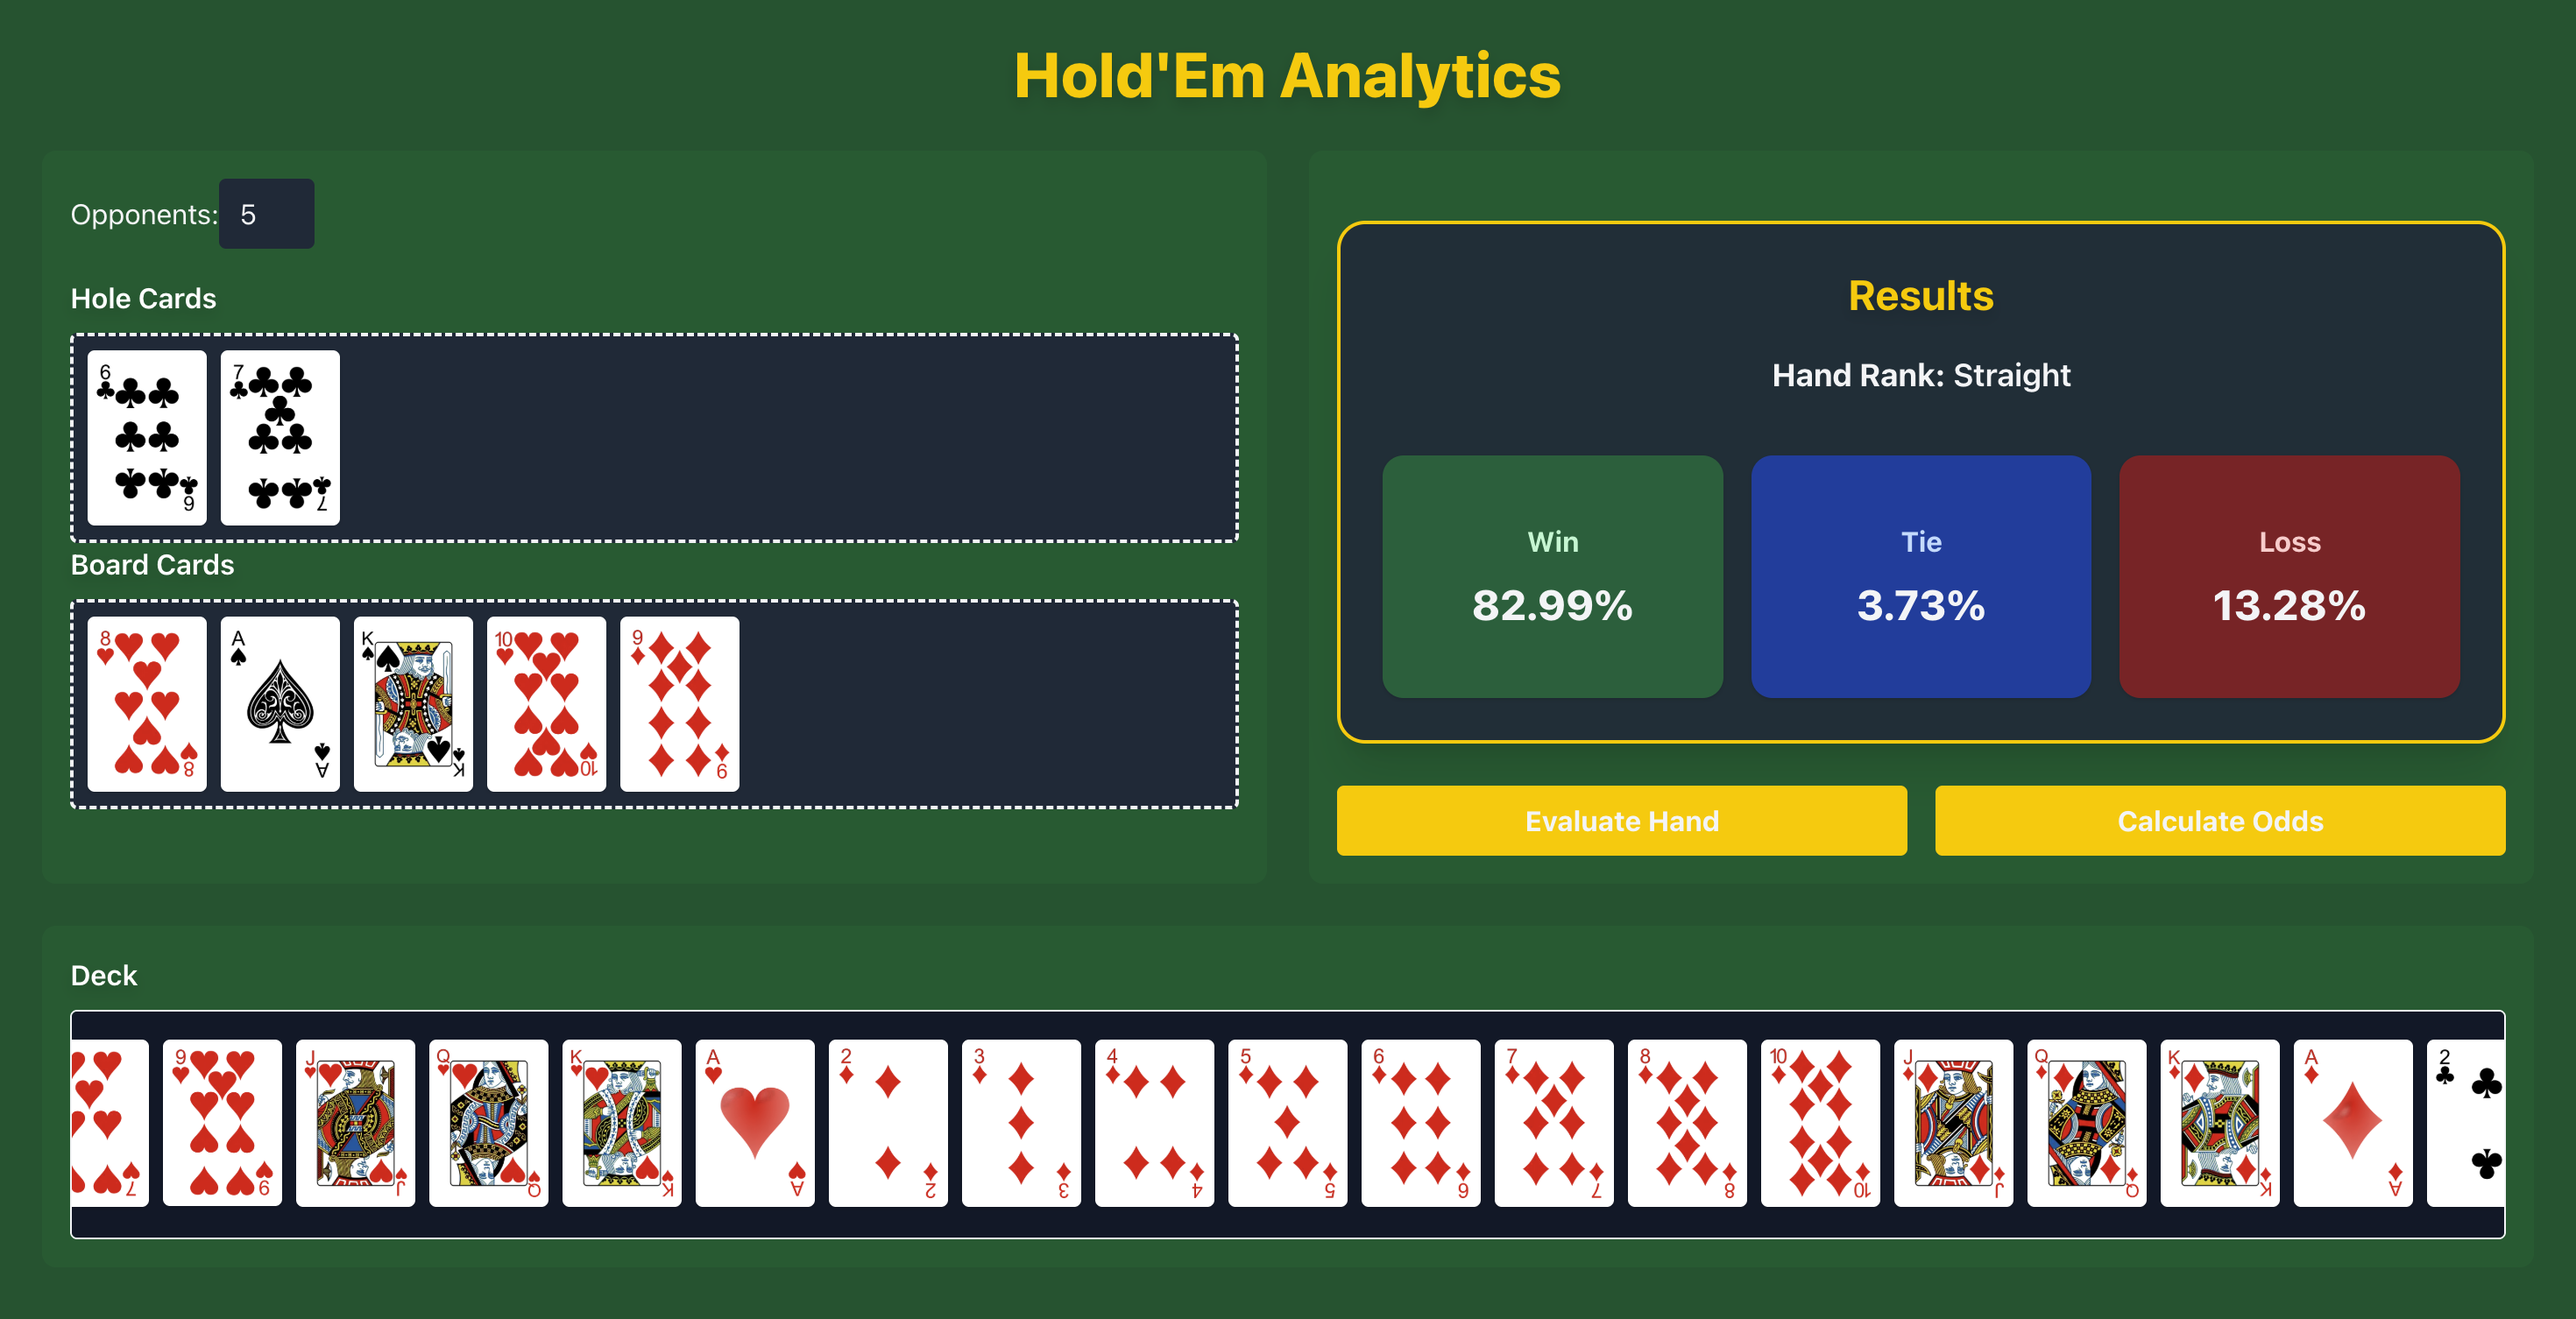
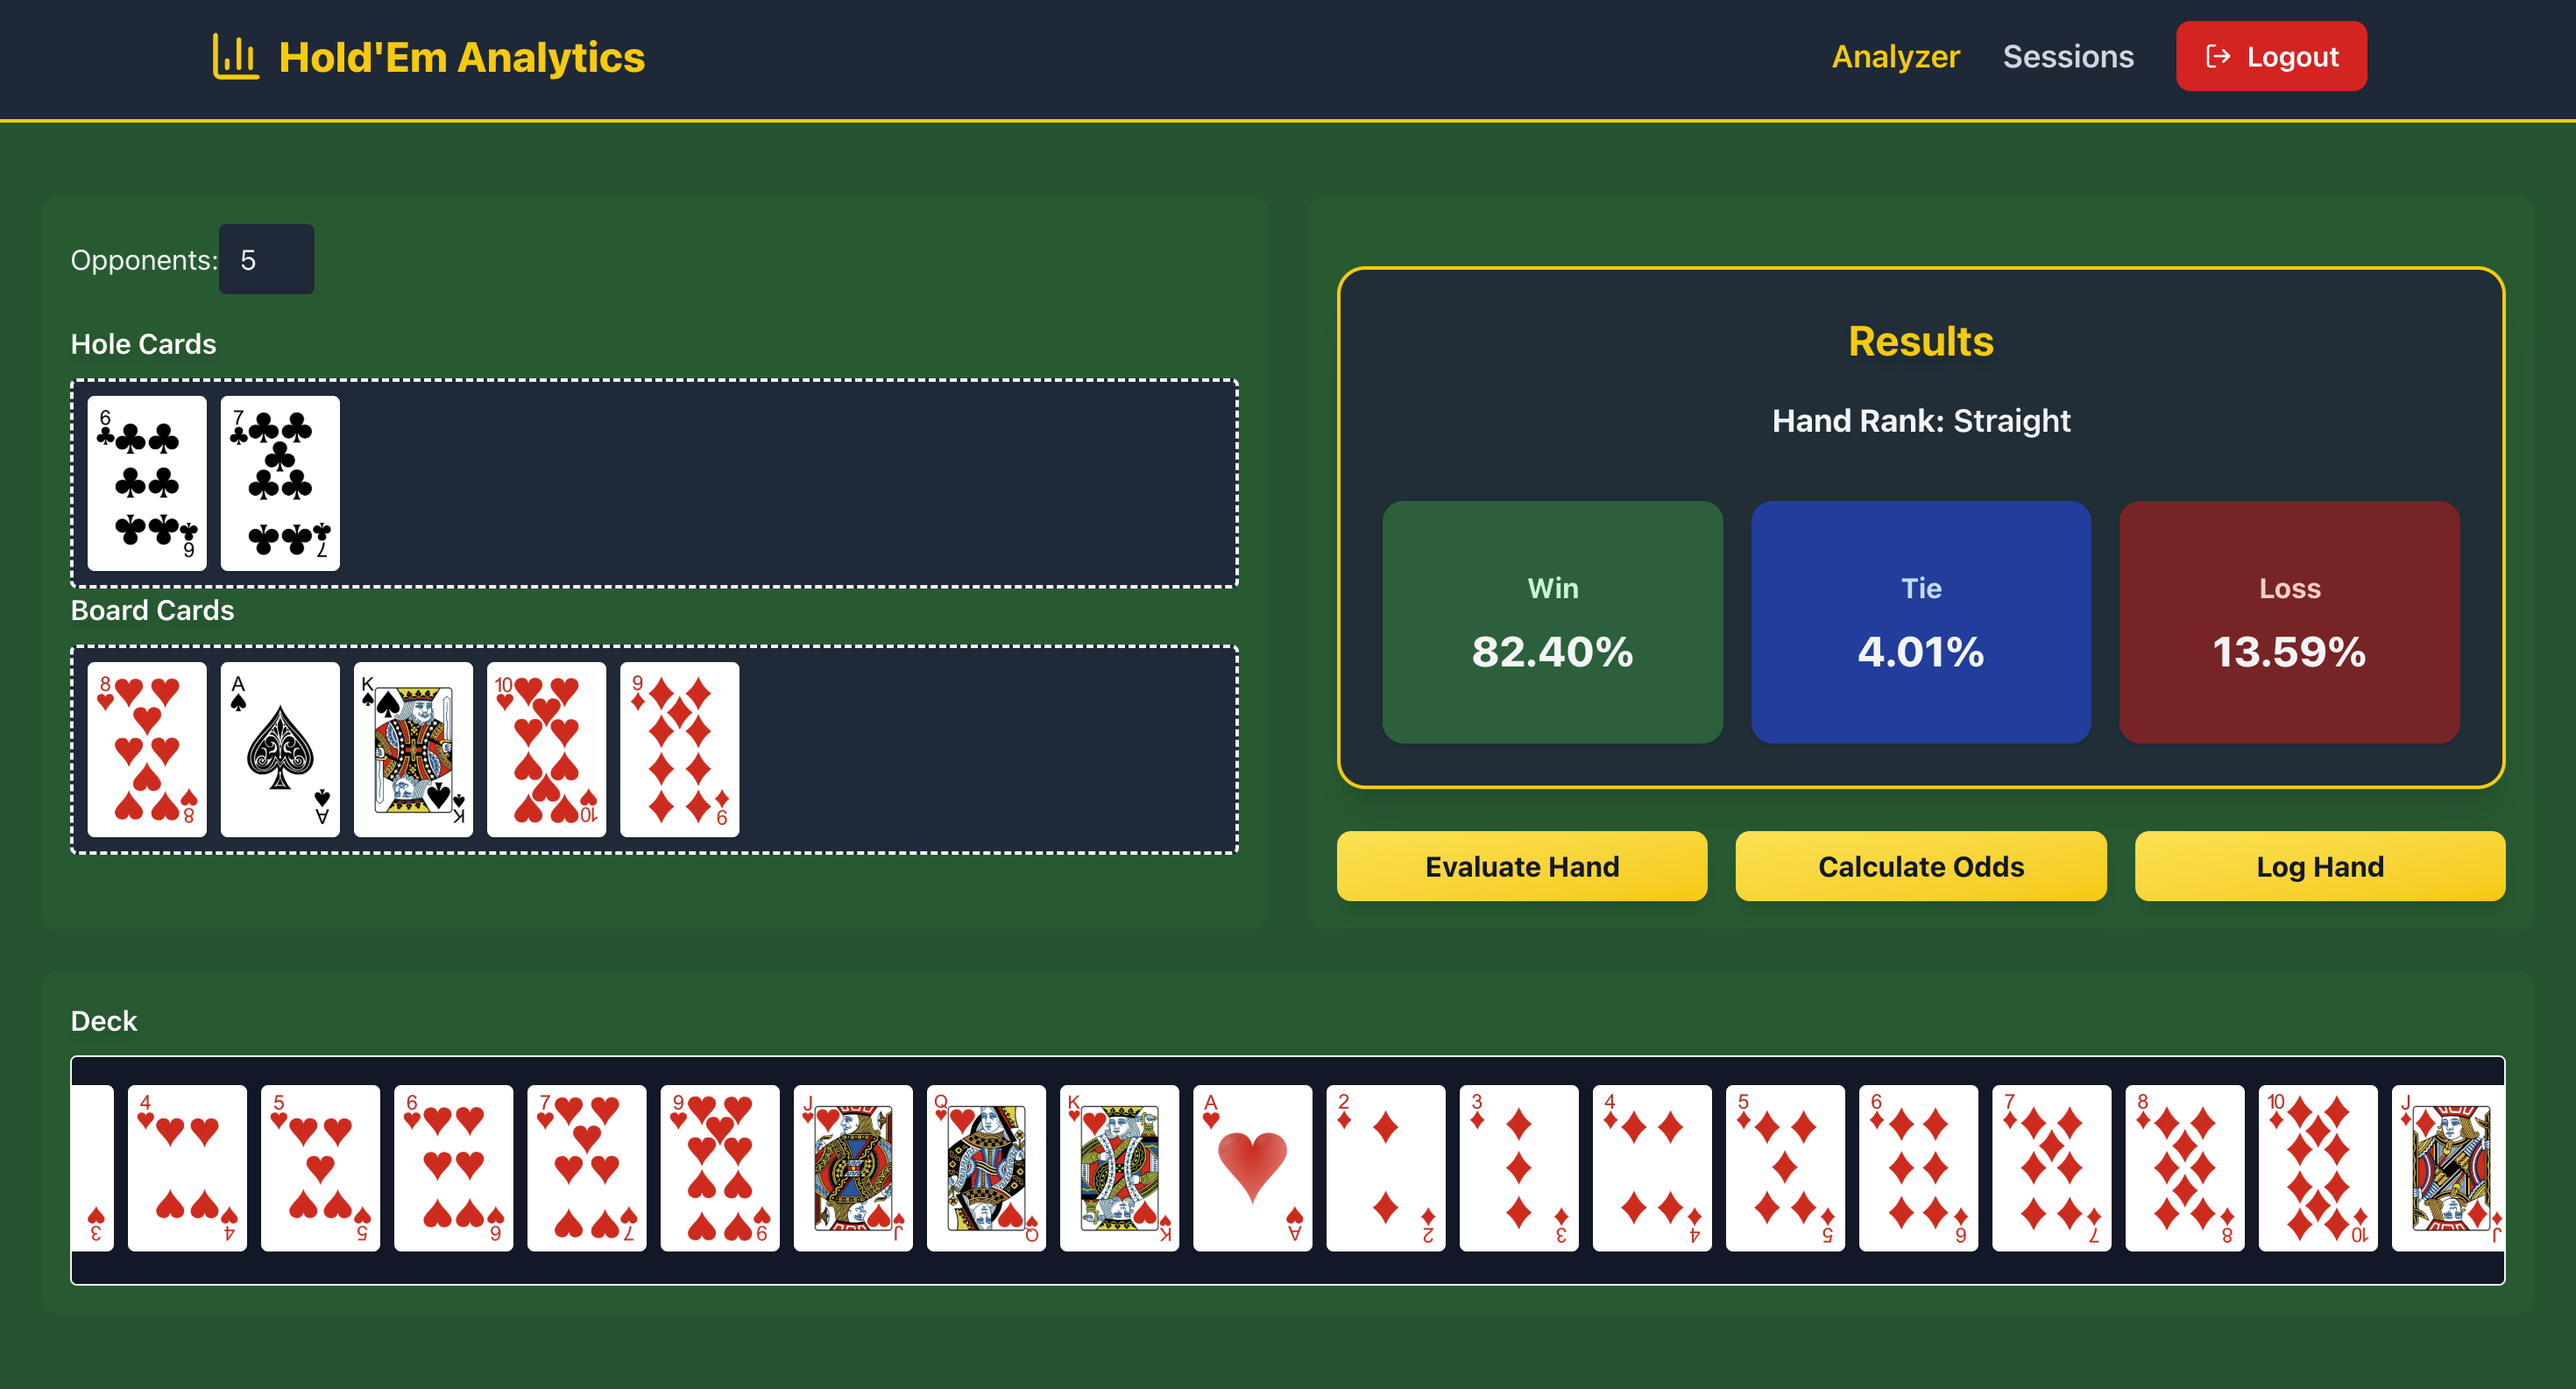
docs: add setup instructions and update README with new features

diff --git a/README.md b/README.md
@@ -1,34 +1,73 @@
 # Hold'Em Analytics
 
+A poker analytics platform for hand evaluation, odds calculation, and session tracking.
+
 ![Main Page](assets/main-page.png)
 
-## Description
-Hold'Em Analytics is a full-stack web application that helps poker players simulate hands and calculate probabilities. Using an interactive drag-and-drop card interface, users can quickly evaluate hand strength and winning odds against multiple opponents.  
+![Hand Logger](assets/hand-logger.png)
 
-> ⚠ Currently, the app includes the hand evaluator and odds calculator UI. Features like logging hands, user authentication, session history, and advanced analytics are in progress.
+![Sessions Page](assets/sessions-page.png)
 
-## Features (Current)
-- **Interactive Drag-and-Drop Card Interface:** Move hole cards and community cards easily.
-- **Texas Hold'em Probability Engine:** Monte Carlo simulations with Python multiprocessing for fast, accurate odds.
-- **Hand Evaluation:** View your hand rank.
-- **Odds Calculator:** Calculate win, tie, and loss probabilities against other players.
+## Features
+- **Interactive Card Interface:** Drag-and-drop cards to simulate poker hands  
+- **Hand Evaluator:** Instant hand strength analysis  
+- **Odds Calculator:** Monte Carlo simulation for win/tie/loss probabilities against 1–9 opponents  
+- **User Authentication:** Secure JWT-based login and registration  
+- **Session Management:** Log and track hands with position, action, and result data  
+- **Hand History:** Review past hands organized by session  
 
 ## Tech Stack
-- **Frontend:** Next.js, React, Tailwind CSS, dnd-kit
-- **Backend:** FastAPI, SQLModel, JWT authentication
-- **Database:** PostgreSQL
-- **Containerization:** Docker
+- **Frontend:** Next.js, React, TypeScript, Tailwind CSS  
+- **Backend:** FastAPI, SQLModel, PostgreSQL  
+- **Authentication:** JWT with bcrypt  
+- **Containerization:** Docker  
 
 ## Running the Project
 
-Build and start the application:
+### Prerequisites
+- Docker and Docker Compose installed  
 
-```bash
-docker compose up --build
-```
+### Setup
 
-Stop the application:
+1. Clone the repository:
+    ```bash
+    git clone 
+    cd holdem-analytics
+    ```
 
+2. Create environment files:
+
+    **Backend `.env` file:**
+    ```bash
+    DATABASE_URL=postgresql+asyncpg://postgres:postgres@db:5432/poker_db
+    SECRET_KEY=your-secret-key-here-change-this-in-production
+    ALGORITHM=HS256
+    ACCESS_TOKEN_EXPIRE_MINUTES=30
+    ```
+
+    **Frontend `.env.local` file:**
+    ```bash
+    NEXT_PUBLIC_API_URL=http://localhost:8000
+    ```
+
+3. Build and start the application:
+    ```bash
+    docker compose up --build
+    ```
+
+4. Access the application:
+    - Frontend: http://localhost:3000  
+    - Backend API: http://localhost:8000  
+    - API Docs: http://localhost:8000/docs  
+
+### Stopping the Application
 ```bash
 docker compose down
 ```
+
+### Troubleshooting
+
+If you encounter issues:
+- Ensure ports 3000, 8000, and 5432 are not in use  
+- Try `docker compose down -v` to remove volumes and rebuild  
+- Check Docker logs with `docker compose logs`
